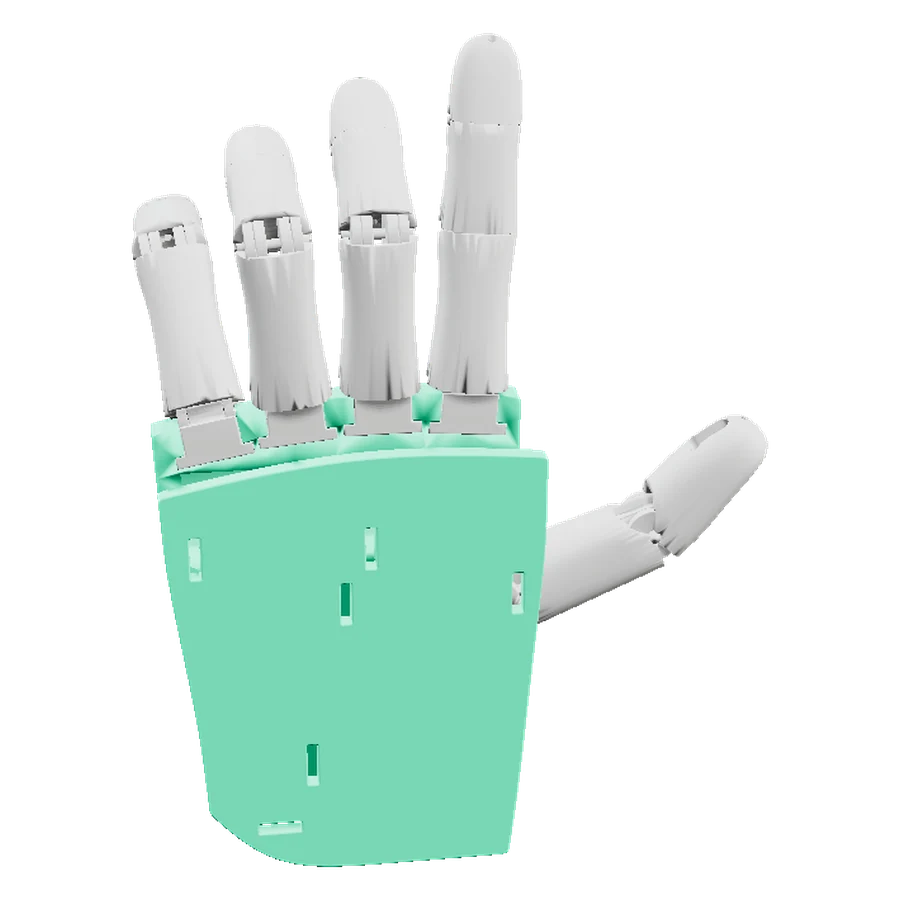
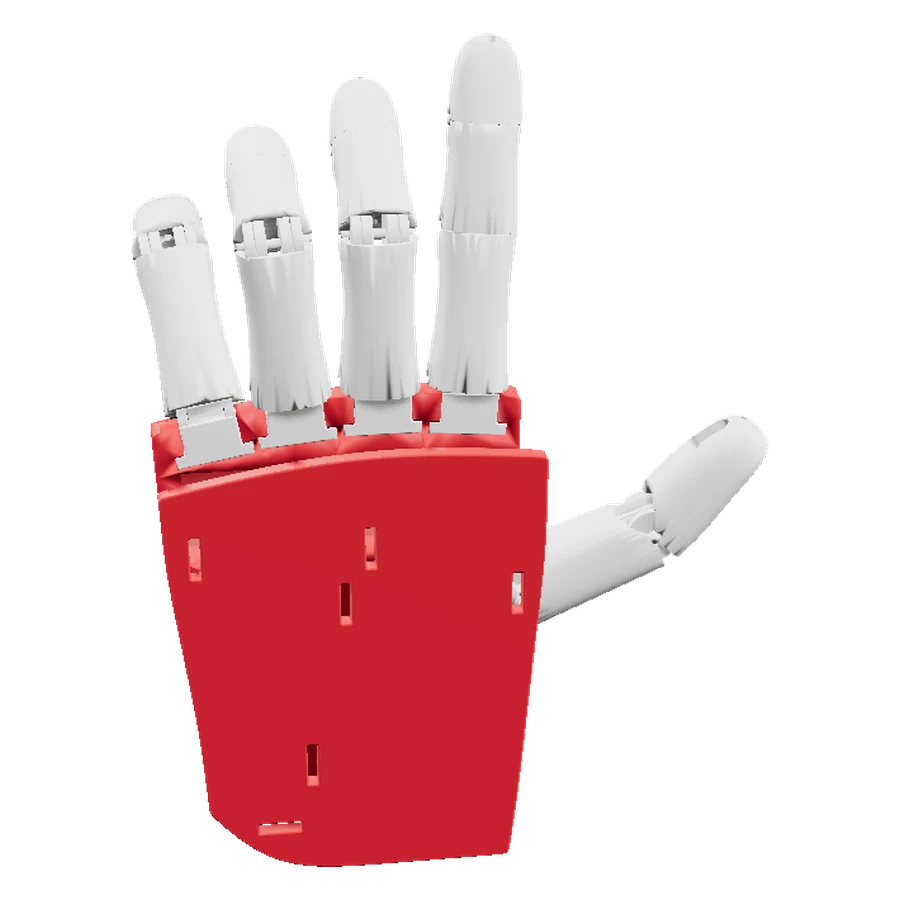
GT hand: red and white, show the whole model without the parts toggle

Changed region(s): [[0.1556, 0.4044, 0.6222, 0.9644]]

diff --git a/src/scripts/gt-hand.js b/src/scripts/gt-hand.js
@@ -1,7 +1,7 @@
 // GT Medical Robotics: the team's hand CAD (wrist and palm by Akkhil) as an exploded view.
 // public/models/hand.glb comes from tools/hand-to-glb.py: one node per part, millimetres, fingers along +y.
-// Drag to rotate; the Explode slider pulls parts out from the palm; "My parts" ghosts everything but
-// the wrist and palm. Loaded lazily when the section nears the viewport.
+// Drag to rotate; the Explode slider pulls parts out from the palm. Red palm and back plate, white digits,
+// as printed. Loaded lazily when the section nears the viewport.
 import { THREE } from './three-lib.js';
 import { RM, AC, mkStudio, PBR } from './whoop-common.js';
 const cv = document.getElementById('handCv');
@@ -13,28 +13,22 @@ if (cv) {
   Object.assign(dl.shadow.camera, { left: -220, right: 220, top: 220, bottom: -220, near: 10, far: 1200 }); dl.shadow.bias = -.0006; dl.shadow.radius = 4; S.add(dl);
   const rl = new THREE.DirectionalLight(0x9fe8c8, .3); rl.position.set(-260, 160, -220); S.add(rl);
 
-  const MINE = /^(palm|palm_hw|backplate)$/;                         // Akkhil's parts: wrist and palm
-  const pla = () => new THREE.MeshStandardMaterial({ color: new THREE.Color().setScalar(.42), metalness: 0, roughness: .62, roughnessMap: PBR.plastic().roughnessMap });
-  const plaMine = () => new THREE.MeshStandardMaterial({ color: new THREE.Color(.02, .62, .32), metalness: 0, roughness: .55, roughnessMap: PBR.plastic().roughnessMap });
+  const RED = /^(palm|backplate)$/;
+  const pla = c => new THREE.MeshStandardMaterial({ color: c, metalness: 0, roughness: .58, roughnessMap: PBR.plastic().roughnessMap });
+  const white = () => pla(new THREE.Color().setScalar(.5)), red = () => pla(new THREE.Color(.42, .022, .028));
   const hw = () => PBR.satin();
   const root = new THREE.Group(); S.add(root);
-  const parts = [];                                                    // { m, mine, home, dir }
-  let ex = .35, exT = .35, mode = 'all', yaw = .7, pitch = .18, drag = null, spin = !RM, ready = false, vis = false, dirty = true;
+  const parts = [];                                                    // { m, home, dir }
+  let ex = .35, exT = .35, yaw = .7, pitch = .18, drag = null, spin = !RM, ready = false, vis = false, dirty = true;
 
-  const slider = box.querySelector('#hEx'), btns = [...box.querySelectorAll('#hMode button')], note = box.querySelector('.loading');
+  const slider = box.querySelector('#hEx'), note = box.querySelector('.loading');
   slider.addEventListener('input', () => { exT = slider.value / 100; spin = false; dirty = true; });
-  btns.forEach(b => b.addEventListener('click', () => { mode = b.dataset.m; btns.forEach(o => o.classList.toggle('on', o === b)); applyMode(); dirty = true; }));
 
   // drag to rotate (horizontal drags rotate; vertical page scroll still works on touch)
   cv.addEventListener('pointerdown', e => { drag = { x: e.clientX, y: e.clientY, yaw, pitch }; spin = false; cv.setPointerCapture(e.pointerId); });
   cv.addEventListener('pointermove', e => { if (!drag) return; yaw = drag.yaw + (e.clientX - drag.x) * .008; pitch = Math.max(-.2, Math.min(.9, drag.pitch + (e.clientY - drag.y) * .005)); dirty = true; });
   const up = () => drag = null; cv.addEventListener('pointerup', up); cv.addEventListener('pointercancel', up);
   cv.addEventListener('keydown', e => { const k = { ArrowLeft: -.12, ArrowRight: .12 }[e.key]; if (k) { yaw += k; spin = false; dirty = true; e.preventDefault(); } });
-
-  function applyMode() {
-    parts.forEach(p => { const ghost = mode === 'mine' && !p.mine; p.m.material.transparent = ghost; p.m.material.opacity = ghost ? .14 : 1; p.m.material.depthWrite = !ghost; p.m.castShadow = !ghost; });
-    P.shadow();
-  }
 
   function load() {
     new THREE.GLTFLoader().load('/models/hand.glb', g => {
@@ -44,15 +38,15 @@ if (cv) {
       g.scene.position.set(-c.x, -bb.min.y + 6, -c.z); root.add(g.scene); g.scene.updateMatrixWorld(true);
       const palmC = new THREE.Box3().setFromObject(meshes.find(m => m.name === 'palm') || g.scene).getCenter(new THREE.Vector3());
       meshes.forEach(m => {
-        const name = m.name || m.parent?.name || '', mine = MINE.test(name);
-        m.material = name === 'palm_hw' ? hw() : mine ? plaMine() : pla();
+        const name = m.name || m.parent?.name || '';
+        m.material = name === 'palm_hw' ? hw() : RED.test(name) ? red() : white();
         m.castShadow = m.receiveShadow = true; if (!m.geometry.attributes.normal) m.geometry.computeVertexNormals();
         const pc = new THREE.Box3().setFromObject(m).getCenter(new THREE.Vector3());
         // explode along the line from the palm centre; the back plate lifts off its face, hardware drops out the front
         const dir = pc.clone().sub(palmC); if (name === 'backplate') dir.set(0, 0, 70); if (name === 'palm_hw') dir.set(0, -10, -60); if (name === 'palm') dir.set(0, 0, 0);
-        parts.push({ m, mine, home: m.position.clone(), dir: dir.multiplyScalar(name.startsWith('f') || name.startsWith('thumb') ? .9 : 1) });
+        parts.push({ m, home: m.position.clone(), dir: dir.multiplyScalar(name.startsWith('f') || name.startsWith('thumb') ? .9 : 1) });
       });
-      ready = true; if (note) note.remove(); applyMode(); dirty = true;
+      ready = true; if (note) note.remove(); P.shadow(); dirty = true;
     }, undefined, () => { if (note) note.textContent = 'Model failed to load.'; });
   }
   new IntersectionObserver((e, o) => { if (e[0].isIntersecting) { o.disconnect(); load(); } }, { rootMargin: '600px' }).observe(cv);

diff --git a/src/styles/case.css b/src/styles/case.css
@@ -167,8 +167,6 @@ input[type=range]{width:100%;accent-color:var(--ac);cursor:pointer}
 .hand-v .loading{position:absolute;left:16px;top:14px;margin:0}
 .hand-v canvas{touch-action:pan-y}
 .hand-v canvas:focus-visible{outline:2px solid var(--ac);outline-offset:-2px}
-.hand-key{display:flex;align-items:center;gap:10px;font:12px var(--fm);color:var(--mu);margin:0}
-.hand-key span{width:12px;height:12px;background:#16a05a;flex:none}
 .ms-cap{margin-top:12px}
 .ms-plots{display:grid;grid-template-rows:1fr 1fr;height:min(76vh,680px)}
 .ms-x{position:relative;border-bottom:1px solid var(--ln);background:radial-gradient(ellipse at 50% 70%,#101a15,var(--bg) 70%)}

diff --git a/docs/interactives.md b/docs/interactives.md
@@ -36,7 +36,7 @@ Entry facts, copy, sources and open questions live in `src/data/portfolio.yaml`.
   - **Model:** the team's `PhantomLimb.stl` (Akkhil, Oct 8, 2026; OK to publish), converted by `tools/hand-to-glb.py` into `public/models/hand.glb`. 290k to 97k triangles, 1.75 MB, 22 nodes: palm, palm_hw, backplate, thumb base, proximal and distal, and f1 to f4 base, proximal, middle and distal.
   - **Rendering:** the `mkStudio` pipeline with a floor and contact shadow.
   - **Controls:** drag or arrow keys rotate. The Explode slider sends parts out along the line from the palm centre; the back plate lifts off and the hardware drops out the front.
-  - **"My parts":** ghosts everything but Akkhil's wrist and palm, which are always green. Other parts are grey PLA, hardware satin metal.
+  - **Colours:** red palm and back plate, white digits, satin metal hardware. Shows the whole STL with no "my parts" split (Akkhil's call, Oct 8, 2026).
   - **Behaviour:** loads lazily, auto-spins until touched, and skips frames when idle.
   - **Dev hooks:** `__gt.shot(explode, yaw)` and `__gt.hero()`, which returns a transparent square PNG used for the hero image `public/images/gt-hand.webp`.
 - The old placeholder `prosthesis.js` arm was removed.
